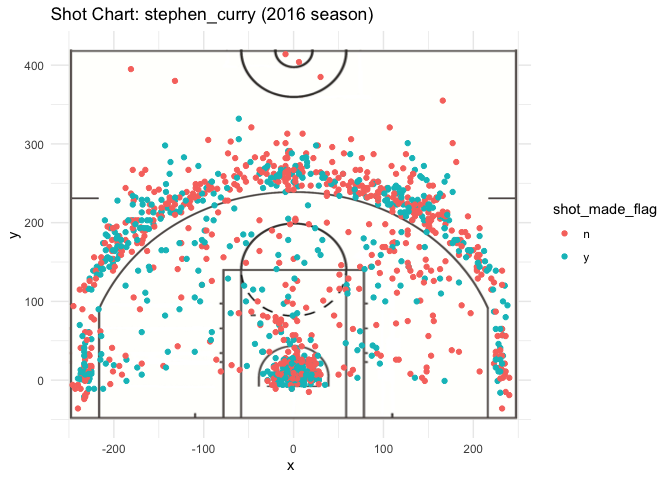
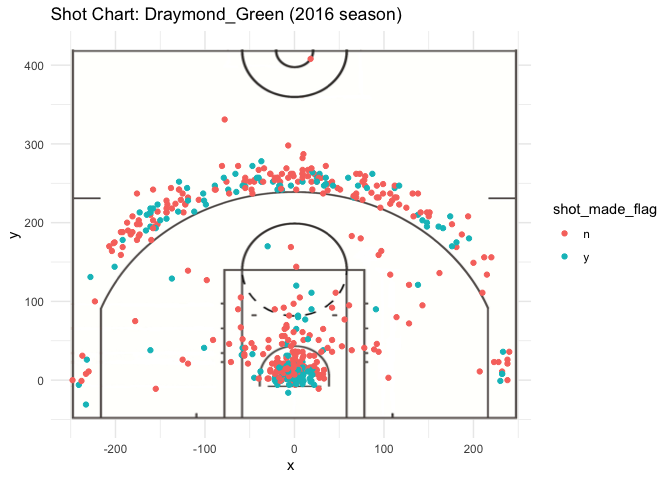
3rd commit, offical launch

diff --git a/NBA_data_visualize.md b/NBA_data_visualize.md
@@ -54,6 +54,9 @@
       width = unit(1, "npc"), 
       height = unit(1, "npc"))
 
+Andre\_iguodala shot-chart
+--------------------------
+
     andre_iguodala_shot_chart <- ggplot(data = andre) + 
       annotation_custom(court_image, -250, 250, -50, 420) + 
       geom_point(aes(x = x, y = y, color = shot_made_flag)) + 
@@ -64,6 +67,45 @@
 
 ![](NBA_data_visualize_files/figure-markdown_strict/unnamed-chunk-5-1.png)
 
+Draymond\_Green shot-chart
+--------------------------
+
+    Draymond_Green_shot_chart <- ggplot(data = green) + 
+      annotation_custom(court_image, -250, 250, -50, 420) + 
+      geom_point(aes(x = x, y = y, color = shot_made_flag)) + 
+      ylim(-50, 420) + ggtitle( 'Shot Chart: Draymond_Green (2016 season)' ) + 
+      theme_minimal()
+    Draymond_Green_shot_chart
+
+![](NBA_data_visualize_files/figure-markdown_strict/unnamed-chunk-6-1.png)
+
+Kevin Durant shot-chart
+-----------------------
+
+    kevin_durant_shot_chart <- ggplot(data = durant) + 
+      annotation_custom(court_image, -250, 250, -50, 420) + 
+      geom_point(aes(x = x, y = y, color = shot_made_flag)) + 
+      ylim(-50, 420) + ggtitle( 'Shot Chart: kevin_durant (2016 season)' ) + 
+      theme_minimal()
+    kevin_durant_shot_chart
+
+![](NBA_data_visualize_files/figure-markdown_strict/unnamed-chunk-7-1.png)
+
+Klay Thompson Shot-chart
+------------------------
+
+    klay_shot_chart <- ggplot(data = klay) + 
+      annotation_custom(court_image, -250, 250, -50, 420) +
+      geom_point(aes(x = x, y = y, color = shot_made_flag)) + 
+      ylim(-50, 420) + ggtitle( 'Shot Chart: Klay Thompson (2016 season)' ) + 
+      theme_minimal()
+    klay_shot_chart
+
+![](NBA_data_visualize_files/figure-markdown_strict/unnamed-chunk-8-1.png)
+
+stephen Curry shot-chart
+------------------------
+
     stephen_curry_shot_chart <- ggplot(data = curry) + 
       annotation_custom(court_image, -250, 250, -50, 420) + 
       geom_point(aes(x = x, y = y, color = shot_made_flag)) + 
@@ -72,6 +114,45 @@
 
     stephen_curry_shot_chart
 
-    ## Warning: Removed 17 rows containing missing values (geom_point).
+![](NBA_data_visualize_files/figure-markdown_strict/unnamed-chunk-9-1.png)
 
-![](NBA_data_visualize_files/figure-markdown_strict/unnamed-chunk-6-1.png)
+    gsw <- rbind(AI,SC,KD,DG,KT)
+
+    gsw_shot_chart <- ggplot(data = gsw)+
+      annotation_custom(court_image,-250,250,-50,420)+
+      geom_point(aes(x = x, y = y, color = shot_made_flag)) +
+      ylim(-50, 420) + ggtitle( 'Shot Chart: gsw (2016 season)' ) + 
+      theme_minimal() + facet_wrap(~name)
+    gsw_shot_chart
+
+![](NBA_data_visualize_files/figure-markdown_strict/unnamed-chunk-10-1.png)
+
+Graphic displaying goal percentage VS shot distance
+---------------------------------------------------
+
+    dat <- gsw %>%
+      group_by(shot_distance)%>%
+      summarise(total_dista_shot = length(shot_made_flag),
+                made_dista_shot = sum(shot_made_flag =='made shot'),
+                perc2 = made_dista_shot/total_dista_shot)
+    ggplot(data = dat, aes(x = shot_distance, y = perc2)) + geom_point()
+
+![](NBA_data_visualize_files/figure-markdown_strict/unnamed-chunk-11-1.png)
+
+Total number of shots by minute of occurrence
+---------------------------------------------
+
+    gsw1 <- gsw %>%
+             group_by(name,minute)%>%
+            select(shot_made_flag,name,minute)%>%
+            summarise(shot_this_minute = length(shot_made_flag))
+
+    ggplot(data = gsw1, aes(x = minute, y = shot_this_minute)) + 
+      geom_rect(xmin = 0, xmax =12,ymin = 0 , ymax = 60 ,fill = 'grey', alpha = 0.02)+
+      geom_rect(xmin = 24, xmax =36,ymin = 0 , ymax = 60 ,fill = 'grey', alpha = 0.02)+
+      geom_point(colour = "red") + 
+      geom_path(colour = "blue") +
+      theme_minimal() + 
+      scale_x_continuous(breaks = seq(0,48,4)) + facet_wrap(~name)
+
+![](NBA_data_visualize_files/figure-markdown_strict/unnamed-chunk-12-1.png)
